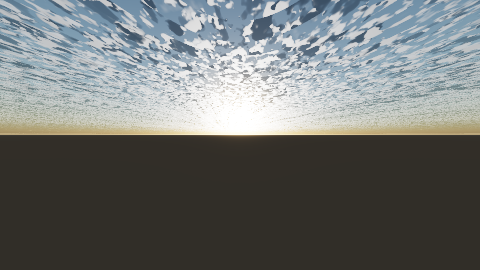
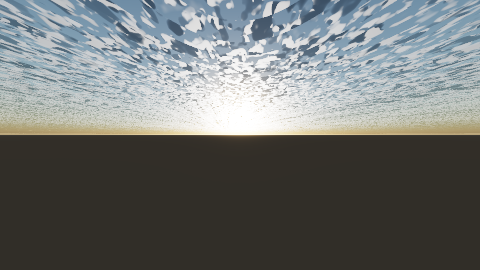
P2.4f: the unresolvable detail dissolves with the LOD in all three density paths
The fourth base octave (152 m at scale 1.4) fades to its mean over LOD 0-1: past 66 m
steps it runs under two samples a feature and marches as threshold-graze lottery, so
fading to the mean is the infinite-ray mean, exact. Fully faded it skips its noise
eval outright (the far-shadow fast path). The erosion dissolves over LOD 0.3-0.5
instead of popping out at 0.5; the early-return past 0.5 stays as a seamless fast path.
Local volumes keep full octaves (near-field by construction, LOD ~ 0 always).

Proven along the way: the speckle is 1/f threshold grazes (every octave carries equal
gradient power, so o4 alone only quarters it — row-64 +2h steps>80 go 5 -> 4), which
is why the residual needs P2.4g's uncapped octave LOD (o3/o2 fade past 66 m steps;
the capped LOD cannot express steps > 150 m). Residual stills-speckle stays
production-melted (256-frame bake).

diff --git a/Engine/DisplayPresentation/VolumetricMedia.h b/Engine/DisplayPresentation/VolumetricMedia.h
@@ -300,10 +300,17 @@ public:
         // the old note measured was the sharpened remap under the sin-hash field, both gone now (P2.1 took
         // the hash, this slice takes the sharpening), and the jittered march breaks what aliasing is left
         // into incoherent grain, which is what the reference's own coarse steps do.
+        // P2.4f: the fourth octave (152 m at scale 1.4) fades to its mean with the LOD — past 66 m steps
+        //    it is unresolvable (under two samples a feature) and marches as threshold-graze lottery
+        //    instead of structure. Fading to the mean is the infinite-ray mean, exact; fully faded it
+        //    skips its noise eval outright, which doubles as the far-shadow fast path.
+        const float Oct4Fade = SmoothStep(0.0f, 1.0f, Lod);
+        const float Oct4 = Oct4Fade >= 1.0f ? 0.5f
+            : Lerp(Noise(S[0] * 8.3f + 1.3f, S[1] * 8.3f + 8.8f, S[2] * 8.3f + 4.4f), 0.5f, Oct4Fade);
         float Shape = Noise(S[0], S[1], S[2]) * 0.5f
                     + Noise(S[0] * 2.02f + 3.1f, S[1] * 2.02f + 1.7f, S[2] * 2.02f + 9.2f) * 0.25f
                     + Noise(S[0] * 4.10f + 7.7f, S[1] * 4.10f + 2.2f, S[2] * 4.10f + 1.1f) * 0.125f
-                    + Noise(S[0] * 8.3f + 1.3f, S[1] * 8.3f + 8.8f, S[2] * 8.3f + 4.4f) * 0.0625f;
+                    + Oct4 * 0.0625f;
         Shape /= 0.9375f;
 
         // Cirrus streaks (REF): only the top type stretches its sample — wide along x, pinched along the
@@ -329,8 +336,10 @@ public:
         const float TimeShift = Time * 0.02f;
         const float Detail = Noise(S[0] * 9.0f + TimeShift, S[1] * 9.0f + TimeShift, S[2] * 9.0f + TimeShift) * 0.6f
                            + Noise(S[0] * 19.0f + 5.0f, S[1] * 19.0f + 5.0f, S[2] * 19.0f + 5.0f) * 0.4f;
+        // P2.4f: the erosion dissolves over LOD 0.3-0.5 instead of popping out at 0.5 — the early-return
+        //    past 0.5 stays, now a seamless fast path rather than a visible contour.
         const float Erode = Lerp(Detail, 1.0f - Detail, Clamp(Hn * 3.0f, 0.0f, 1.0f))
-                          * Cloud.ErosionDetail * 0.45f;
+                          * Cloud.ErosionDetail * 0.45f * (1.0f - SmoothStep(0.3f, 0.5f, Lod));
         return Clamp(Body - Erode * (1.0f - Body), 0.0f, 1.0f) * Cloud.Density;
     }
 

diff --git a/Scratchpad/SkyCloudKernelProof.cpp b/Scratchpad/SkyCloudKernelProof.cpp
@@ -182,7 +182,10 @@ float TwinCloudDensityAt(const SkyConstantRecord& K, const float Position[3], fl
     float Q1[3] = { S[0]*2.02f+3.1f, S[1]*2.02f+1.7f, S[2]*2.02f+9.2f };
     float Q2[3] = { S[0]*4.10f+7.7f, S[1]*4.10f+2.2f, S[2]*4.10f+1.1f };
     float Q3[3] = { S[0]*8.3f+1.3f, S[1]*8.3f+8.8f, S[2]*8.3f+4.4f };
-    float Shape = TwinNoise(S)*0.5f + TwinNoise(Q1)*0.25f + TwinNoise(Q2)*0.125f + TwinNoise(Q3)*0.0625f;
+    // P2.4f's twin: the fourth octave fades to its mean with the LOD exactly as the engine pair does.
+    float Oct4Fade = TwinSmoothstep(0.0f, 1.0f, Lod);
+    float Oct4 = Oct4Fade >= 1.0f ? 0.5f : TwinNoise(Q3)*(1.0f-Oct4Fade)+0.5f*Oct4Fade;
+    float Shape = TwinNoise(S)*0.5f + TwinNoise(Q1)*0.25f + TwinNoise(Q2)*0.125f + Oct4*0.0625f;
     Shape /= 0.9375f;
     if (K.Control[3] == 5u)
     {
@@ -200,7 +203,8 @@ float TwinCloudDensityAt(const SkyConstantRecord& K, const float Position[3], fl
     float E2[3] = { S[0]*19.0f+5.0f, S[1]*19.0f+5.0f, S[2]*19.0f+5.0f };
     float Detail = TwinNoise(E1)*0.6f + TwinNoise(E2)*0.4f;
     float MixT = Hn*3.0f; MixT = MixT < 0.0f ? 0.0f : (MixT > 1.0f ? 1.0f : MixT);
-    float Erode = (Detail+(1.0f-Detail-Detail)*MixT)*K.CloudDetail[2]*0.45f;
+    // P2.4f's twin: the erosion dissolves over LOD 0.3-0.5 exactly as the engine pair does.
+    float Erode = (Detail+(1.0f-Detail-Detail)*MixT)*K.CloudDetail[2]*0.45f*(1.0f-TwinSmoothstep(0.3f, 0.5f, Lod));
     float Carved = Body-Erode*(1.0f-Body);
     Carved = Carved < 0.0f ? 0.0f : (Carved > 1.0f ? 1.0f : Carved);
     return Carved*std::fmax(K.CloudLayer[3], 0.0f);

diff --git a/Scratchpad/VolumetricMediaProof.cpp b/Scratchpad/VolumetricMediaProof.cpp
@@ -533,11 +533,16 @@ int main()
         Expect(Carves, "the eroded density never exceeds the uneroded");
         Expect(Strict > 0u, "and it carves strictly somewhere");
 
-        // The lod gate opens past 0.5: two lods above it shade bit-identical uneroded light.
+        // The lod gate opens past 0.5: two lods above it shade bit-identical uneroded light — while
+        // P2.4f's octave fade runs between them, so the pair moves to 1.0/1.5 (both fully faded) and the
+        // 0.6/1.0 pair now proves the fade itself (partial vs full octave must differ).
         const float P[3] = { 120.0f, 240.0f, 1600.0f };
-        Expect(VolumetricMedia::CloudDensity(High, Wind, P, 0.0f, 0.6f) ==
+        Expect(VolumetricMedia::CloudDensity(High, Wind, P, 0.0f, 1.0f) ==
+               VolumetricMedia::CloudDensity(High, Wind, P, 0.0f, 1.5f),
+               "lod 1.0 and lod 1.5 agree bit-for-bit (both skip erosion, octave fully faded)");
+        Expect(VolumetricMedia::CloudDensity(High, Wind, P, 0.0f, 0.6f) !=
                VolumetricMedia::CloudDensity(High, Wind, P, 0.0f, 1.0f),
-               "lod 0.6 and lod 1.0 agree bit-for-bit (both skip erosion)");
+               "lod 0.6 and lod 1.0 differ (the octave fades between them)");
 
         // The lean is a rigid downwind shift: the field at P under a +x integral equals the rest field at
         // P + drift + lean, where the drift comes from the trusted AdvectDrift and the lean direction (+x)
